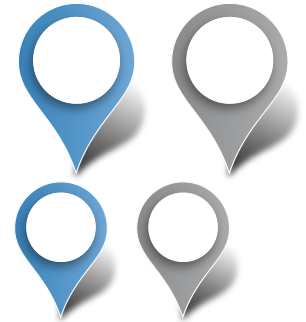
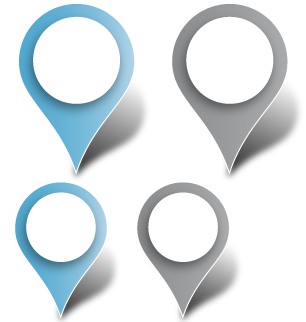
Styles Bug fix; Modify Preprod Deployment script; Color Hex / images Bug fix ; Prevent Multiple Requests to get cities by name

Changed region(s): [[0.0588, 0.0, 0.4412, 0.528], [0.0294, 0.559, 0.3529, 0.9627]]

diff --git a/src/src/Wegeoo/WebsiteBundle/Resources/public/css/home.css b/src/src/Wegeoo/WebsiteBundle/Resources/public/css/home.css
@@ -29,6 +29,10 @@ h1{
 	font:1em FuturaStd-Light;
 	color:#444444;
 }
+.btn-primary{
+    background-color: #52AAD1;
+    border-color: #52AAD1;
+}
 .container-wegeoo
 {
 	background:#FFFFFF;
@@ -121,13 +125,13 @@ input:focus { outline: none; }
 	height: 100%;
 	/* IE9 SVG, needs conditional override of 'filter' to 'none' */
[1 lines of base64/hex data omitted]
-	background: -moz-linear-gradient(top,  #5d97cc 0%, #2e70ad 100%); /* FF3.6+ */
-	background: -webkit-gradient(linear, left top, left bottom, color-stop(0%,#5d97cc), color-stop(100%,#2e70ad)); /* Chrome,Safari4+ */
-	background: -webkit-linear-gradient(top,  #5d97cc 0%,#2e70ad 100%); /* Chrome10+,Safari5.1+ */
-	background: -o-linear-gradient(top,  #5d97cc 0%,#2e70ad 100%); /* Opera 11.10+ */
-	background: -ms-linear-gradient(top,  #5d97cc 0%,#2e70ad 100%); /* IE10+ */
-	background: linear-gradient(to bottom,  #5d97cc 0%,#2e70ad 100%); /* W3C */
-	filter: progid:DXImageTransform.Microsoft.gradient( startColorstr='#5d97cc', endColorstr='#2e70ad',GradientType=0 ); /* IE6-8 */
+	background: -moz-linear-gradient(top,  #52AAD1 0%, #2e70ad 100%); /* FF3.6+ */
+	background: -webkit-gradient(linear, left top, left bottom, color-stop(0%,#52AAD1), color-stop(100%,#2e70ad)); /* Chrome,Safari4+ */
+	background: -webkit-linear-gradient(top,  #52AAD1 0%,#2e70ad 100%); /* Chrome10+,Safari5.1+ */
+	background: -o-linear-gradient(top,  #52AAD1 0%,#2e70ad 100%); /* Opera 11.10+ */
+	background: -ms-linear-gradient(top,  #52AAD1 0%,#2e70ad 100%); /* IE10+ */
+	background: linear-gradient(to bottom,  #52AAD1 0%,#2e70ad 100%); /* W3C */
+	filter: progid:DXImageTransform.Microsoft.gradient( startColorstr='#52AAD1', endColorstr='#2e70ad',GradientType=0 ); /* IE6-8 */
 	
 	text-align: center; 
 	text-indent: .1em; 
@@ -268,7 +272,7 @@ input:focus { outline: none; }
 
 .nav-tabs > li.active > a, .nav-tabs > li.active > a:hover, .nav-tabs > li > a
 {
-	background:#CEE0EE;
+	background:#B1D4E7;
 	color:#333333;
 	-webkit-border-radius: 0px;
 	-moz-border-radius: 0px;
@@ -280,7 +284,7 @@ input:focus { outline: none; }
 }
 .nav-tabs > li.active > a, .nav-tabs > li.active > a:hover, .nav-tabs > li.active > a, .nav-tabs > li.active > a:focus
 {
-	background:#5d97cc;
+	background:#52AAD1;
 	color:#FFFFFF;
 	-webkit-border-radius: 0px;
 	-moz-border-radius: 0px;
@@ -353,25 +357,21 @@ div .acResults{
 
 
 
-
-
-
-
 .input-group-addon
 {
     background: none;
 }
 li.selected
 {
-	background: #5d97cc;
+	background: #52AAD1;
 }
 li.selected > a:hover
 {
-	background: #CEE0EE;
+	background: #B1D4E7;
 }
 .dropdown-menu > li > a:hover, .dropdown-menu > li > a:focus
 {
-	background: #CEE0EE;
+	background: #B1D4E7;
 }
 li.selected .text
 {
@@ -853,7 +853,7 @@ li.selected > a:hover .text
 }
 .classifiedAdRowContainer:hover
 {
-	background:#CEE0EE;
+	background:#DFEDF6;
     -webkit-transition: 0.3s all;
     transition: 0.3s all;
 }

diff --git a/src/src/Wegeoo/WebsiteBundle/Resources/public/wegeoo/controller/CityController.js b/src/src/Wegeoo/WebsiteBundle/Resources/public/wegeoo/controller/CityController.js
@@ -2,23 +2,31 @@
 //////////////////////////////////////////////////////////////// CONSTRUCTOR
 Wegeoo.CityController = function()
 {
-
+    this.mFilterIndex = 0;
 };
 ///////////////////////////////////////////////////////////////////////////////
 //////////////////////////////////////////////////////////////// GET TOWNS
-Wegeoo.CityController.prototype.filterTowns = function(pParameters,pCallback)
+Wegeoo.CityController.prototype.filterTowns = function(parameters,callback)
 {
-    if (pParameters instanceof Object)
+    setTimeout(this.doFilterTowns.bind(this),500,parameters,callback , ++this.mFilterIndex);
+};
+Wegeoo.CityController.prototype.doFilterTowns = function(parameters,callback,filterIndex)
+{
+    if ( filterIndex != this.mFilterIndex ) return;
+
+    if (parameters instanceof Object)
     {
         var lServiceParameters = {};
-        lServiceParameters["filters"] = pParameters;
+        lServiceParameters["filters"] = parameters;
 
         var lService = new Wegeoo.Service();
-        lService.get(Wegeoo.Service.ROUTE_CITY , lServiceParameters , pCallback);
+        lService.get(Wegeoo.Service.ROUTE_CITY , lServiceParameters , callback);
     }else{
-        console.error("pParameters must be an array.");
+        console.error("parameters must be an array.");
     }
 
-};
+    this.newFilter = false;
+    this.checkOtherFilter = false;
+}
 ///////////////////////////////////////////////////////////////////////////////
 ////////////////////////////////////////////////////////////////

diff --git a/src/src/Wegeoo/WebsiteBundle/Resources/public/wegeoo/controller/HomePageViewController.js b/src/src/Wegeoo/WebsiteBundle/Resources/public/wegeoo/controller/HomePageViewController.js
@@ -91,7 +91,7 @@ Wegeoo.HomePageViewController.prototype.init = function()
     //$('#displayMarkerAnnouncementsButtonSubmit').on('click', this.displayAdsFromSelectedMarkers.bind(this));
 
     //Load all components
-    $(".searchTownInput").keyup(this.onTownChange.bind(this));
+    //$(".searchTownInput").keyup(this.onTownChange.bind(this));
     $("#search_pricefrom_input,#search_priceto_input").click(this.onPriceClick);
     $("#search_pricefrom_input,#search_priceto_input").focusout(this.onPriceFocusOut);
     $("#cheapLocation").click(function()
@@ -209,25 +209,9 @@ Wegeoo.HomePageViewController.prototype.init = function()
     $('#resultLayout').infiniteScroll(this.mInfiniteScrollParams);
     $('#resultLayout').disableInfiniteScroll();
     
-    //$(".searchTownInput").autocomplete({
-    //    displayValue : function(inValue, inData)
-    //    {
-    //        return inData.libelle + " (" + inData.postCode + ")";
-    //    }
-    //});
-
     $('#banner').banner({
         delay : 2000
     });
-
-    $(window).scroll(function()
-    {
-        if ( window.scrollY + window.screen.height < $("#mapLayout").position().top + $("#mapLayout").height())
-            $(".scrollIcon").css("opacity" , 1);
-        else
-            $(".scrollIcon").css("opacity" , 0);
-    });
-
 
     //sidemenu
     $("#sideMenu").sideMenu({});

diff --git a/src/src/Wegeoo/WebsiteBundle/Resources/public/css/home-768.less b/src/src/Wegeoo/WebsiteBundle/Resources/public/css/home-768.less
@@ -3,6 +3,7 @@
   @menuWidth : 280px;
   @menuWidth2 : 80%;
   @blue1 : #52AAD1;
+  @blue2 : #B1D4E7;
   @duration : 0.3s;
 
   body{
@@ -20,7 +21,17 @@
     }
   }
 
+  .logoLayout
+  {
+    padding-bottom: 0;
+
+    .logoName1,.logoName2{
+      display: none;
+    }
+  }
   #mapLayout{
+
+    position: relative;
 
     .searchParameterContainer , .searchButtonSubmit{
       display:none;
@@ -31,21 +42,30 @@
     }
     .scrollIcon{
       display: block;
-      position: fixed;
-      float: right;
+      position: absolute;
       right: 15px;
-      bottom: 10px;
-
-      -webkit-transition: all @duration ease;
-      -moz-transition: all @duration ease;
-      -ms-transition: all @duration ease;
-      -o-transition: all @duration ease;
-      transition: all @duration ease;
+      top: 10px;
+      -webkit-transition: all 0.3s ease;
+      -moz-transition: all 0.3s ease;
+      -ms-transition: all 0.3s ease;
+      -o-transition: all 0.3s ease;
+      transition: all 0.3s ease;
 
     }
 
     .searchForm{
       display:none;
+    }
+  }
+
+  .resultLayoutSort{
+    padding-left: 10px;
+  }
+
+  footer{
+
+    .searchShorcutsTowns{
+      line-height: 1.8em;
     }
   }
 

diff --git a/src/src/Wegeoo/WebsiteBundle/Resources/public/css/sideMenu.less b/src/src/Wegeoo/WebsiteBundle/Resources/public/css/sideMenu.less
@@ -155,6 +155,10 @@
   margin-top:30px;
 }
 
+#sideMenu{
+  display: none;
+}
+
 @media (max-width: 768px)
 {
   @menuWidth : 280px;
@@ -213,6 +217,7 @@
     position: fixed;
     top: 0;
     left: 0px;
+    display:block;
 
     -webkit-transition: all @duration ease;
     -moz-transition: all @duration ease;
@@ -295,10 +300,28 @@
 
     .sideMenuPostButton{
       position: relative;
-      float:left;
+      float:right;
 
-      padding:8px 8px 8px 13px;
+      padding:8px 13px 8px 8px;
     }
+
+    .sideMenuHeader{
+
+      position: absolute;
+      top: 0;
+      left: 0;
+      width: 100%;
+      height: 100%;
+
+      .sideMenuHeaderImage{
+        background-image: url('/bundles/wegeoowebsite/images/headerWegeoo.png');
+        position: relative;
+        margin-left: auto;
+        margin-right: auto;
+        display: block;
+      }
+    }
+
   }
 
   /*

diff --git a/src/src/Wegeoo/WebsiteBundle/Resources/public/css/footer.css b/src/src/Wegeoo/WebsiteBundle/Resources/public/css/footer.css
@@ -4,7 +4,7 @@
 {
     position:relative;
     clear:left;
-    background: #D7E6F3; /* Old browsers */
+    background: #B1D4E7; /* Old browsers */
     margin-top:10px;
     padding-bottom:10px;
 }
@@ -60,7 +60,7 @@
 {
     position:relative;
     clear:left;
-    background: #D7E6F3; /* Old browsers */
+    background: #B1D4E7; /* Old browsers */
     margin-top:10px;
 }
 .searchShortcutsContainers

diff --git a/src/src/Wegeoo/WebsiteBundle/Resources/public/css/classified-768.less b/src/src/Wegeoo/WebsiteBundle/Resources/public/css/classified-768.less
@@ -4,6 +4,15 @@
         text-align: right;
     }
 
+    .logoLayout
+     {
+       padding-bottom: 0;
+
+       .logoName1,.logoName2{
+         display: none;
+       }
+     }
+
     /********************** CONTACT ********/
     /************************************/
     .detailsTitleBackground:before
